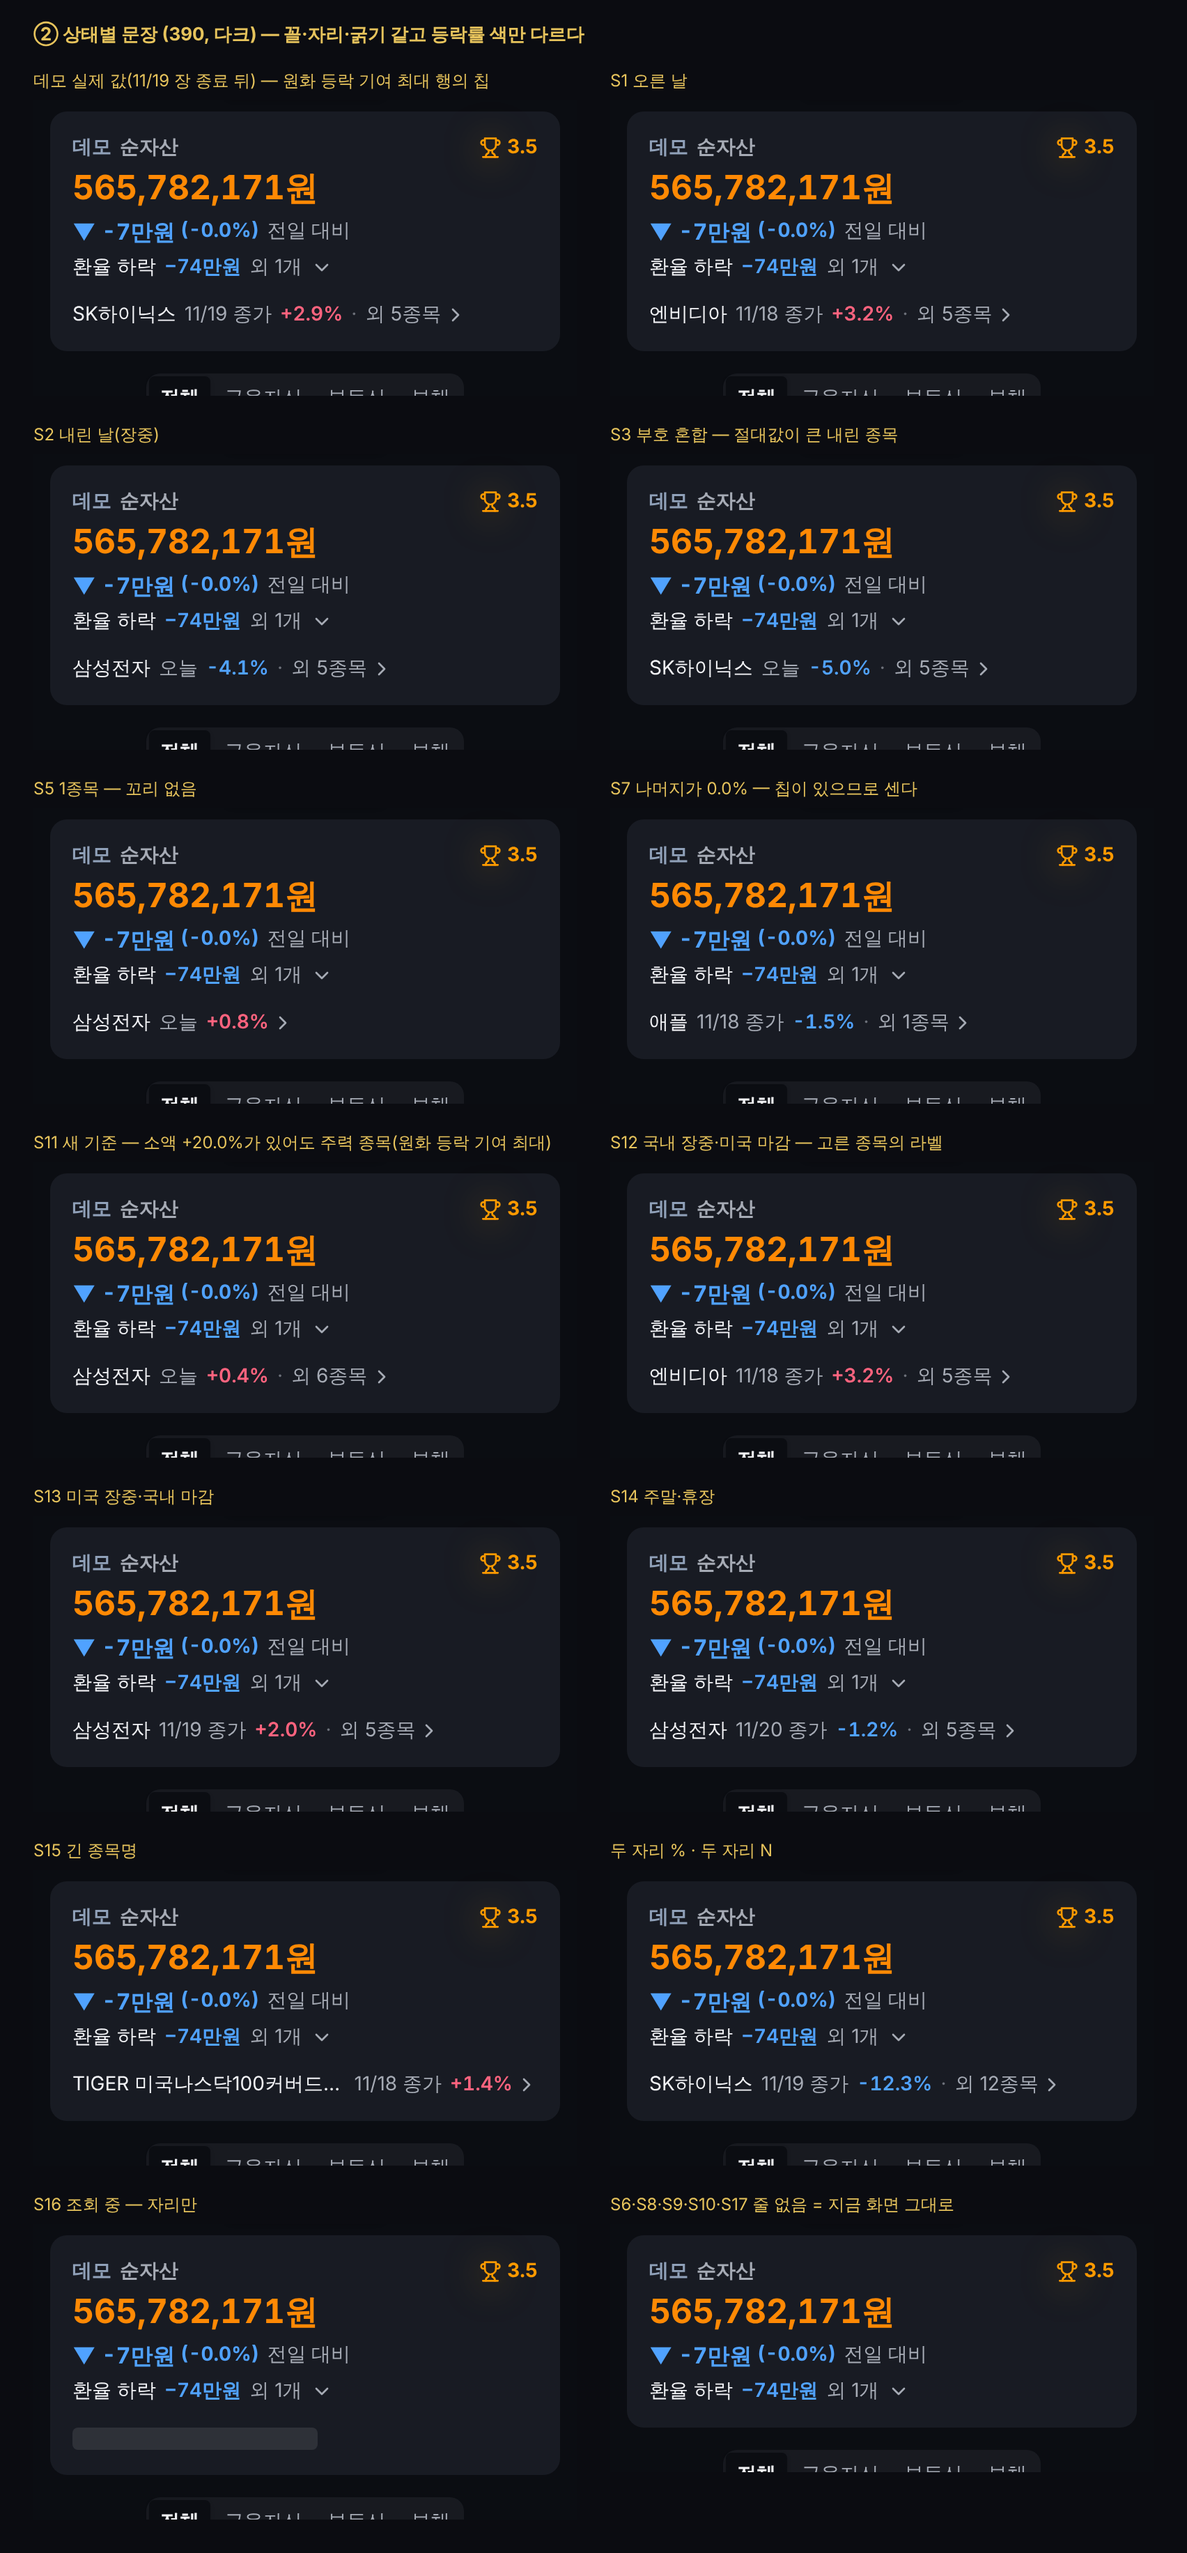
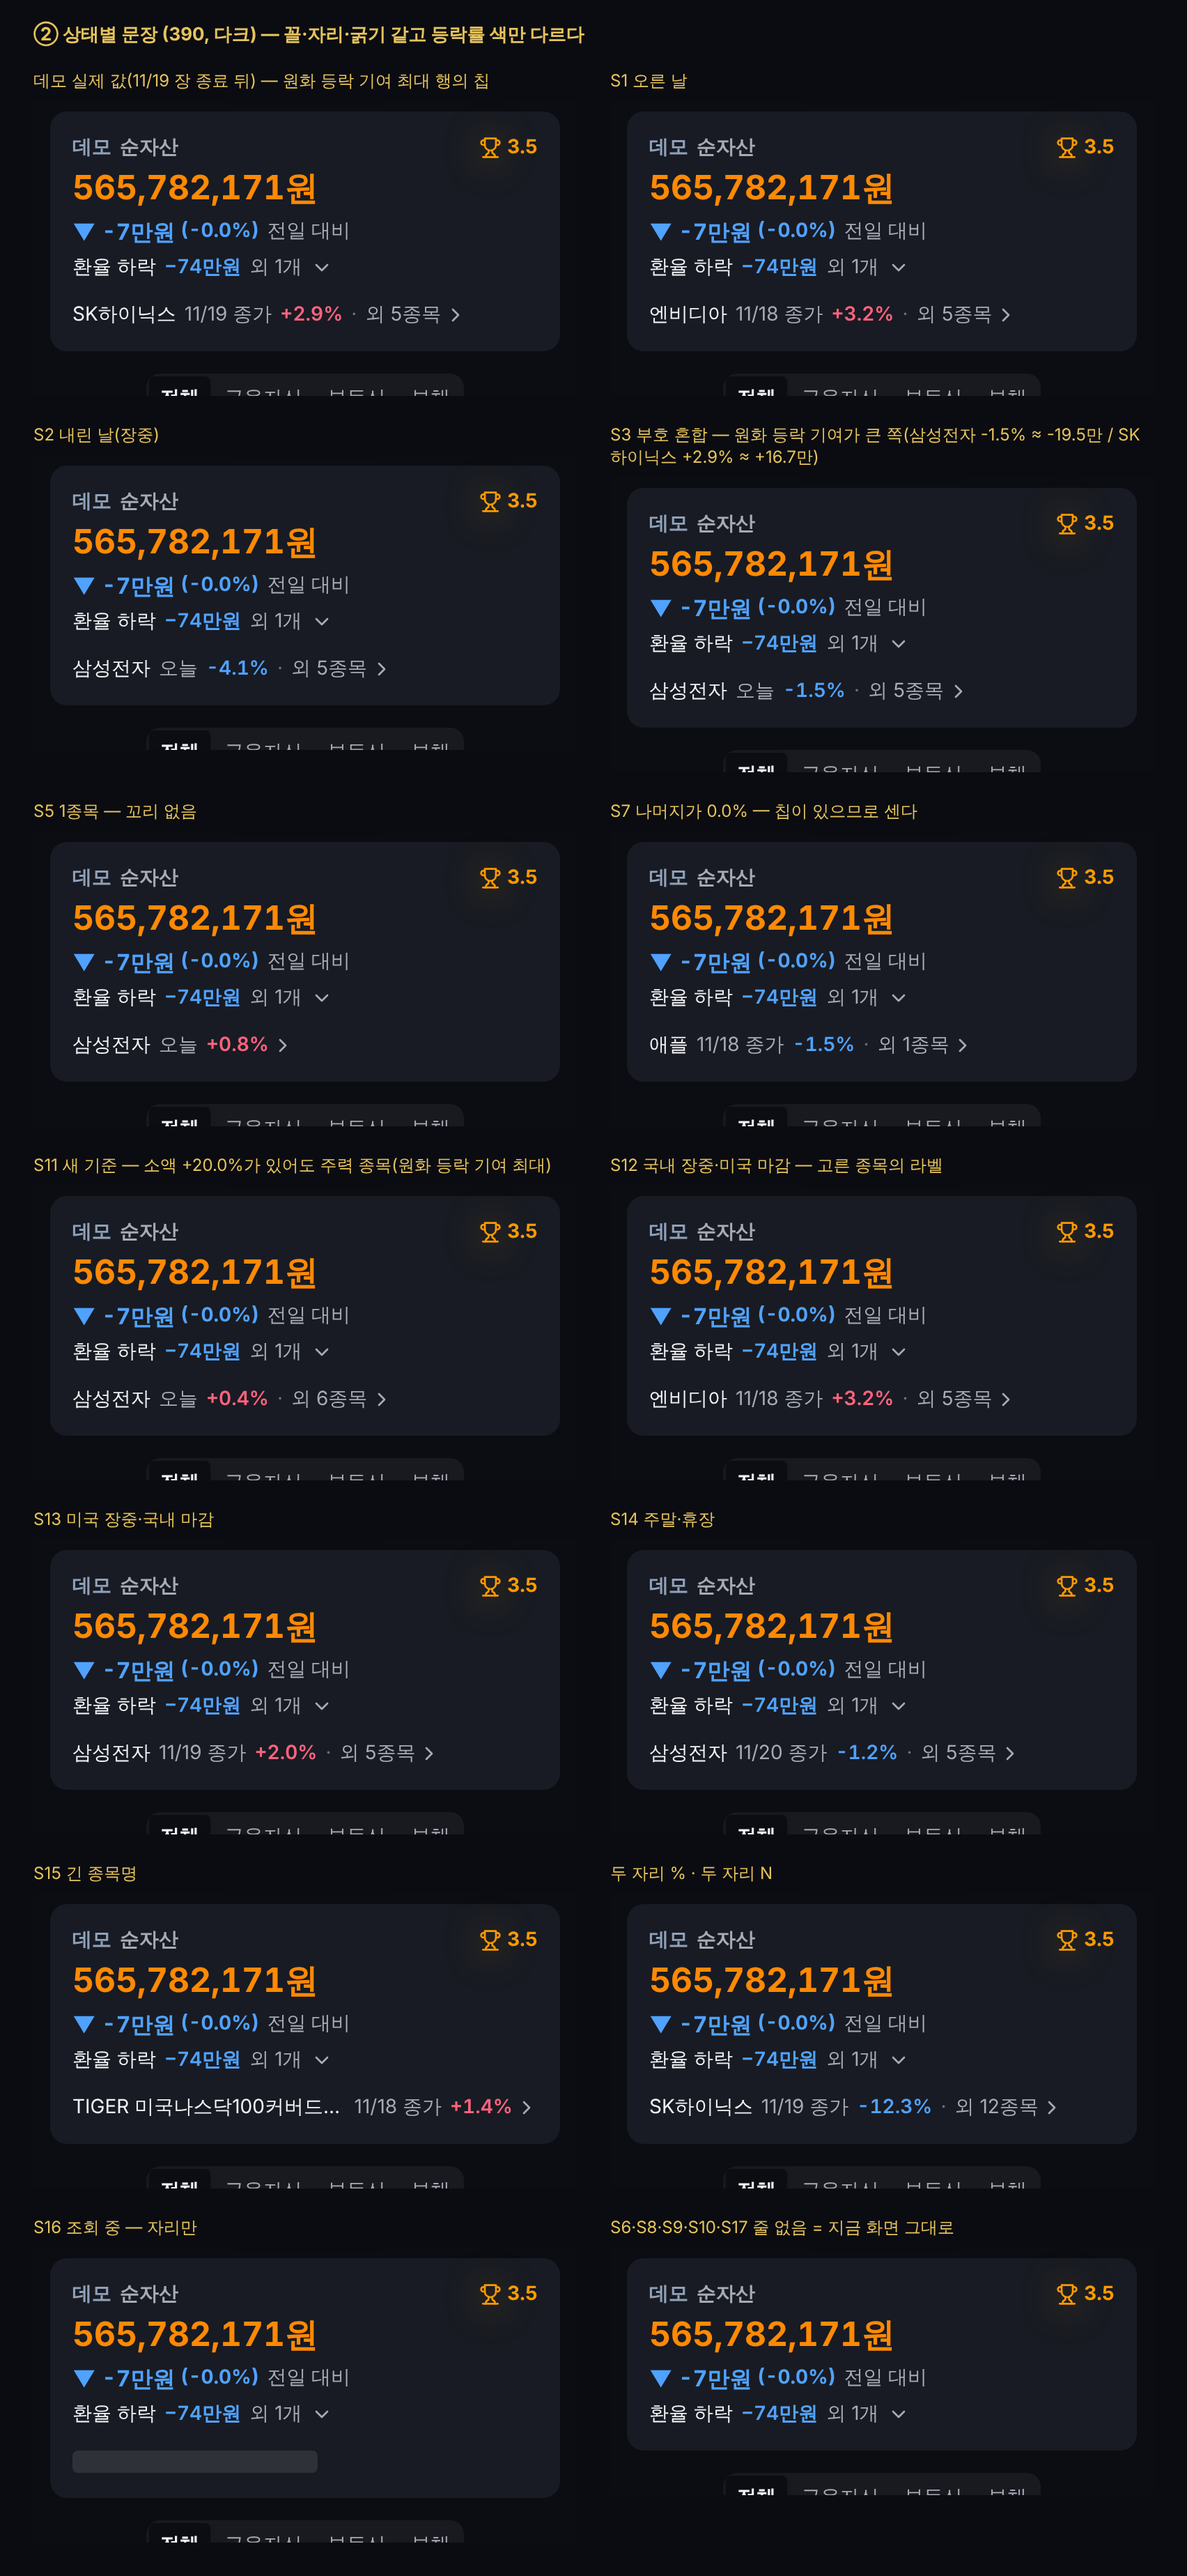
memory: #246 목업 배지·S3 정정

diff --git a/issues/4.xx-246-home-my-stock-today/4.xx-ui.md b/issues/4.xx-246-home-my-stock-today/4.xx-ui.md
@@ -1,7 +1,7 @@
 # 4.xx #246 홈 '내 종목 오늘' 1줄 — ui (design-review, ui-designer, 2026-11-19)
 
 기준 화면: preview `issue-5.126` 데모 `/?demo=1`(390×844·320×640·1280×900, deviceScaleFactor 2). 목업은 그 홈의 실제 DOM·클래스 위에 새 줄만 주입했다(코드 수정 0).
-정본 관계: 범위·상태·AC는 [`4.xx-spec.md`](./4.xx-spec.md), 조건은 [`4.xx-challenge.md`](./4.xx-challenge.md), 구현 경로는 [`4.xx-tech-review.md`](./4.xx-tech-review.md), **배치·수치·모션·표기는 이 문서**. 홈 팁 배지 `내 자산`은 #245 ui 2-4절 그대로.
+정본 관계: 범위·상태·AC는 [`4.xx-spec.md`](./4.xx-spec.md), 조건은 [`4.xx-challenge.md`](./4.xx-challenge.md), 구현 경로는 [`4.xx-tech-review.md`](./4.xx-tech-review.md), **배치·수치·모션·표기는 이 문서**. 홈 팁 배지(`내 조건`, #245 사업 대리 검토 ⑤ 반영)는 #245 ui 2-4절 그대로.
 캡처: `screenshots/mock/m1-*.png`(22장, 그중 `m1-03a`·`m1-03b`는 폐기 — 파일명 `.DISCARDED`) · 도구: `tools/mock-m1-lib.js`(주입·히트영역 실측), `tools/mock-m1-shot.mjs`(장면). 팁 주입은 #245 `mock-d1-lib.js` 재사용.
 캡처 시각: 2026-11-19 19시대 KST(국내 장 종료 뒤). 이때 데모 상세·주식 행 칩은 삼성전자 `11/19 종가 ▲0.4%`·SK하이닉스 `▲2.9%`·KODEX 200 `▲1.0%`·TIGER 미국S&P500 `▲0.3%`·애플 `11/18 종가 ▲0.3%`·엔비디아 `▼2.5%` → 고르는 기준(원화 등락 기여 절대값 최대, 3-1절)으로 계산하면 SK하이닉스 ≈ +16.7만원이 가장 커서 줄은 **`SK하이닉스 11/19 종가 +2.9% · 외 5종목`**. 첫 화면·자리·폭 목업은 이 실제 값으로 찍었다(C132).
 확인하지 못한 것: 실제 구현의 조회 중 → 결과 전환(목업은 정지 화면), 장중 `오늘` 상태의 실화면(데모는 장중 칩을 숨김), 375·360·430 폭, 실기기 터치, 라이트 1280. 라이트는 html의 `dark` 클래스를 내려 본 것이다(앱 테마 설정 경로는 development 캡처에서 확인).
@@ -81,7 +81,7 @@
 | 데모 실제 | `SK하이닉스 11/19 종가 +2.9% · 외 5종목` | 빨강 | 기여 최대 행(3-1절). 첫 화면 `m1-01a`, 320 `m1-06a`, 1280 `m1-06d`, 라이트 `m1-07a` |
 | S1 | `엔비디아 11/18 종가 +3.2% · 외 5종목` | 빨강 | 데모 6종목이라 N = 5 |
 | S2 | `삼성전자 오늘 -4.1% · 외 5종목` | 파랑 | 꼴·자리·굵기 S1과 같음. 부호 글자는 ASCII `-`(tech-review 5절) |
-| S3 | `SK하이닉스 오늘 -5.0% · 외 5종목` | 파랑 | |
+| S3 | `삼성전자 오늘 -1.5% · 외 5종목` | 파랑 | 새 기준 대입(3-1절 가정 ③): 삼성전자 −19.5만 / SK하이닉스 +2.9% +16.7만 → 등락률이 작아도 기여가 큰 삼성전자 |
 | S5 | `삼성전자 오늘 +0.8% ›` | 빨강 | 가운뎃점·꼬리 없음, 쉐브론이 등락률 뒤로 붙는다 |
 | S7 | `애플 11/18 종가 -1.5% · 외 1종목` | 파랑 | |
 | S11 | `삼성전자 오늘 +0.4% · 외 6종목` | 빨강 | 새 기준 대입: 소액 종목 `+20.0%`가 있어도 주력 종목이 뽑힌다(3-1절 가정 ①). 이전 `에코프로 오늘 +20.0%`는 폐기 |
@@ -127,7 +127,7 @@
 
 ## 5. 팁과 줄 — 함께 보인다 (CEO 판정 ①) — `m1-03c`·`m1-03d`·`m1-03e`
 - **'차례 팁이 보이면 줄 숨김'은 폐기.** 줄은 팁 종류·유무와 무관하게 같은 조건으로 보인다. 팁–줄 판정, 팁 닫음에 따른 줄 나타남 모션, #245 팁 구현 의존 모두 없음. `m1-03a`·`m1-03b`는 폐기(파일명 `.DISCARDED`).
-- 차례 팁(`내 자산 · 점검 차례 1종목`, 도착 = 종목 점검)과 줄(도착 = 상세·주식)은 뜻과 도착이 다르다.
+- 차례 팁(`내 조건 · 점검 차례 1종목`, 도착 = 종목 점검)과 줄(도착 = 상세·주식)은 뜻과 도착이 다르다.
   | 폭 | 줄 히트 | 팁 위 끝 | 한 화면에 같이 서는가 | 캡처 |
   |---|---|---|---|---|
   | 390×844 | 212~252 | 972 | 아니오 — 720px 떨어져 스크롤해야 팁이 보인다 | `m1-03d`(전체 길이) |
@@ -170,7 +170,7 @@
 | 줄 끝 | `›` | 누르면 이동 | 안다 — 지수 줄과 같은 모양. 원인 줄은 `⌄`(펼침)이라 구분된다 |
 | 긴 이름 | `TIGER 미국나스…` | 말줄임 | 안다. 말줄임 뒤 빈칸(글자 단위로 잘려 최대 한 글자 폭)은 수용 |
 | 조회 중 | 회색 막대 1개 | 불러오는 중 | 안다 — 지수 줄과 같은 꼴 |
-| 팁(#245) | `내 자산` · `점검 차례 1종목` · 이유 · `×` | #245 ui 7절 판정 그대로 | — |
+| 팁(#245) | `내 조건` · `점검 차례 1종목` · 이유 · `×` | #245 ui 7절 판정 그대로 | — |
 - 단위 없는 숫자 0, 기호만 있는 칸 0, `0.0%`·`—`·빈 꼬리(`·`로 끝나는 줄) 0, 색만으로 알리는 상태 0(부호 글자가 같이 있다).
 - 같은 카드 안 부호 글자: 변동 줄 `-7만원`·지수 `-0.2%`·내 종목 `-4.1%`는 ASCII, 원인 금액 `−74만원`만 U+2212다(기존). 이 줄은 지수 줄 쪽에 맞춘다.
 
